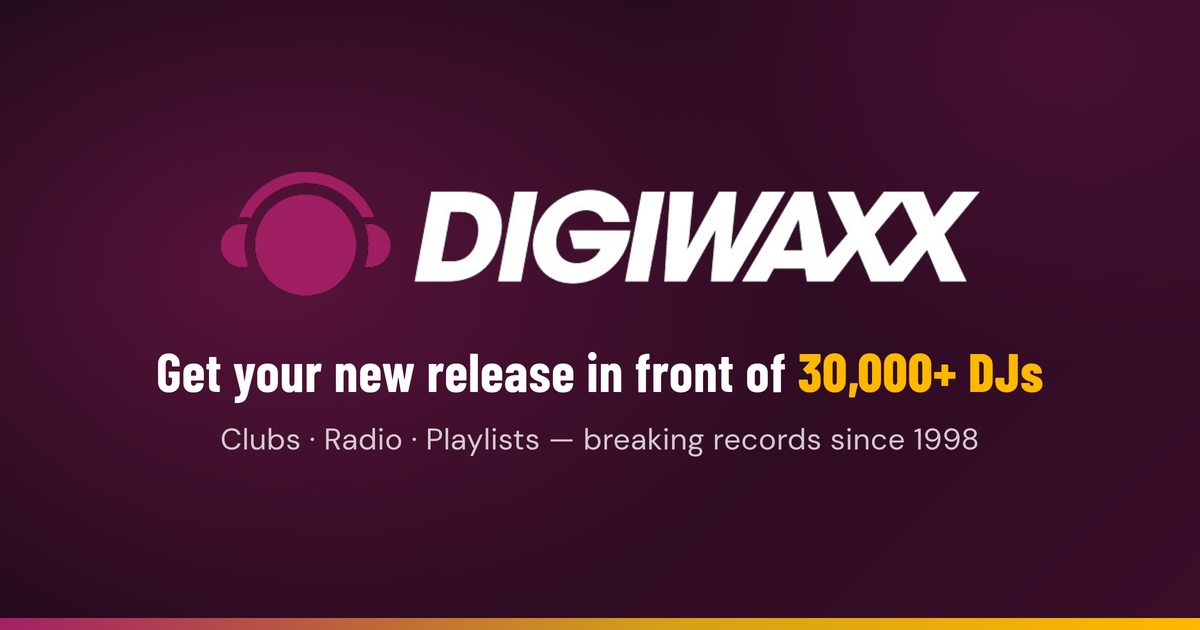
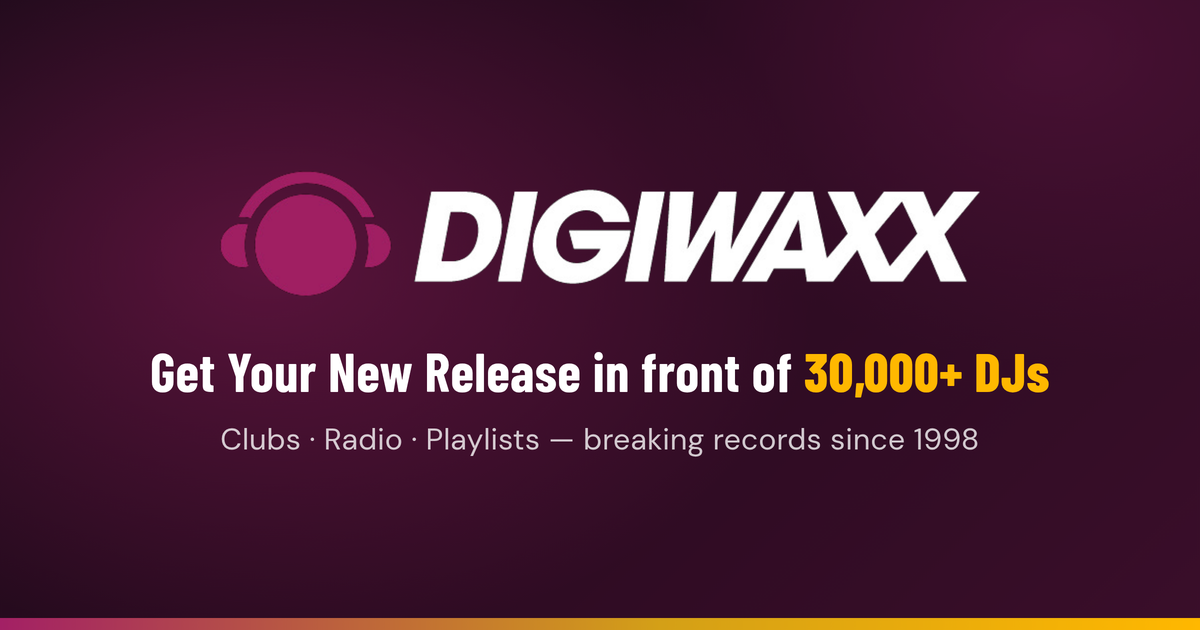
Capitalize the opening phrase of the share card headline
"Get Your New Release" now leads in title case, matching the page
title's own casing; the rest of the line is unchanged.

Claude-Session: https://claude.ai/code/session_017KHtjAZXL7EQsdfcgkijve

Changed region(s): [[0.1233, 0.5429, 0.8942, 0.6333]]

diff --git a/index.html b/index.html
@@ -16,12 +16,12 @@
     <meta property="og:image" content="https://promote.digiwaxx.com/assets/share-card.png">
     <meta property="og:image:width" content="1200">
     <meta property="og:image:height" content="630">
-    <meta property="og:image:alt" content="Digiwaxx — get your new release in front of 30,000+ DJs. Clubs, radio and playlists since 1998.">
+    <meta property="og:image:alt" content="Digiwaxx — Get Your New Release in front of 30,000+ DJs. Clubs, radio and playlists since 1998.">
     <meta name="twitter:card" content="summary_large_image">
     <meta name="twitter:title" content="DIGIWAXX | New Music Boost | Get Your Record to DJs">
     <meta name="twitter:description" content="Your record in front of 30,000+ DJs. Trusted since 1998.">
     <meta name="twitter:image" content="https://promote.digiwaxx.com/assets/share-card.png">
-    <meta name="twitter:image:alt" content="Digiwaxx — get your new release in front of 30,000+ DJs. Clubs, radio and playlists since 1998.">
+    <meta name="twitter:image:alt" content="Digiwaxx — Get Your New Release in front of 30,000+ DJs. Clubs, radio and playlists since 1998.">
     <script type="application/ld+json">{"@context":"https://schema.org","@type":"Organization","name":"Digiwaxx","alternateName":"Digiwaxx Media","url":"https://promote.digiwaxx.com","logo":{"@type":"ImageObject","@id":"https://promote.digiwaxx.com#logo","url":"https://promote.digiwaxx.com/assets/logo-org.png","width":1200,"height":300},"foundingDate":"1998","description":"Record pool and music promotion service connecting artists' records to a network of 30,000+ working DJs since 1998.","sameAs":["https://www.instagram.com/digiwaxx"],"@id":"https://promote.digiwaxx.com#organization","image":{"@id":"https://promote.digiwaxx.com#logo"},"slogan":"Breaking records since 1998.","knowsAbout":["Music promotion","DJ promotion","Record pools","Radio promotion","Playlist promotion","Independent music marketing"]}</script>
     <script type="application/ld+json">{"@context":"https://schema.org","@type":"WebSite","name":"Digiwaxx","url":"https://promote.digiwaxx.com","@id":"https://promote.digiwaxx.com#website","publisher":{"@id":"https://promote.digiwaxx.com#organization"},"inLanguage":"en-US","description":"Record pool and music promotion service connecting artists' records to a network of 30,000+ working DJs since 1998."}</script>
 
